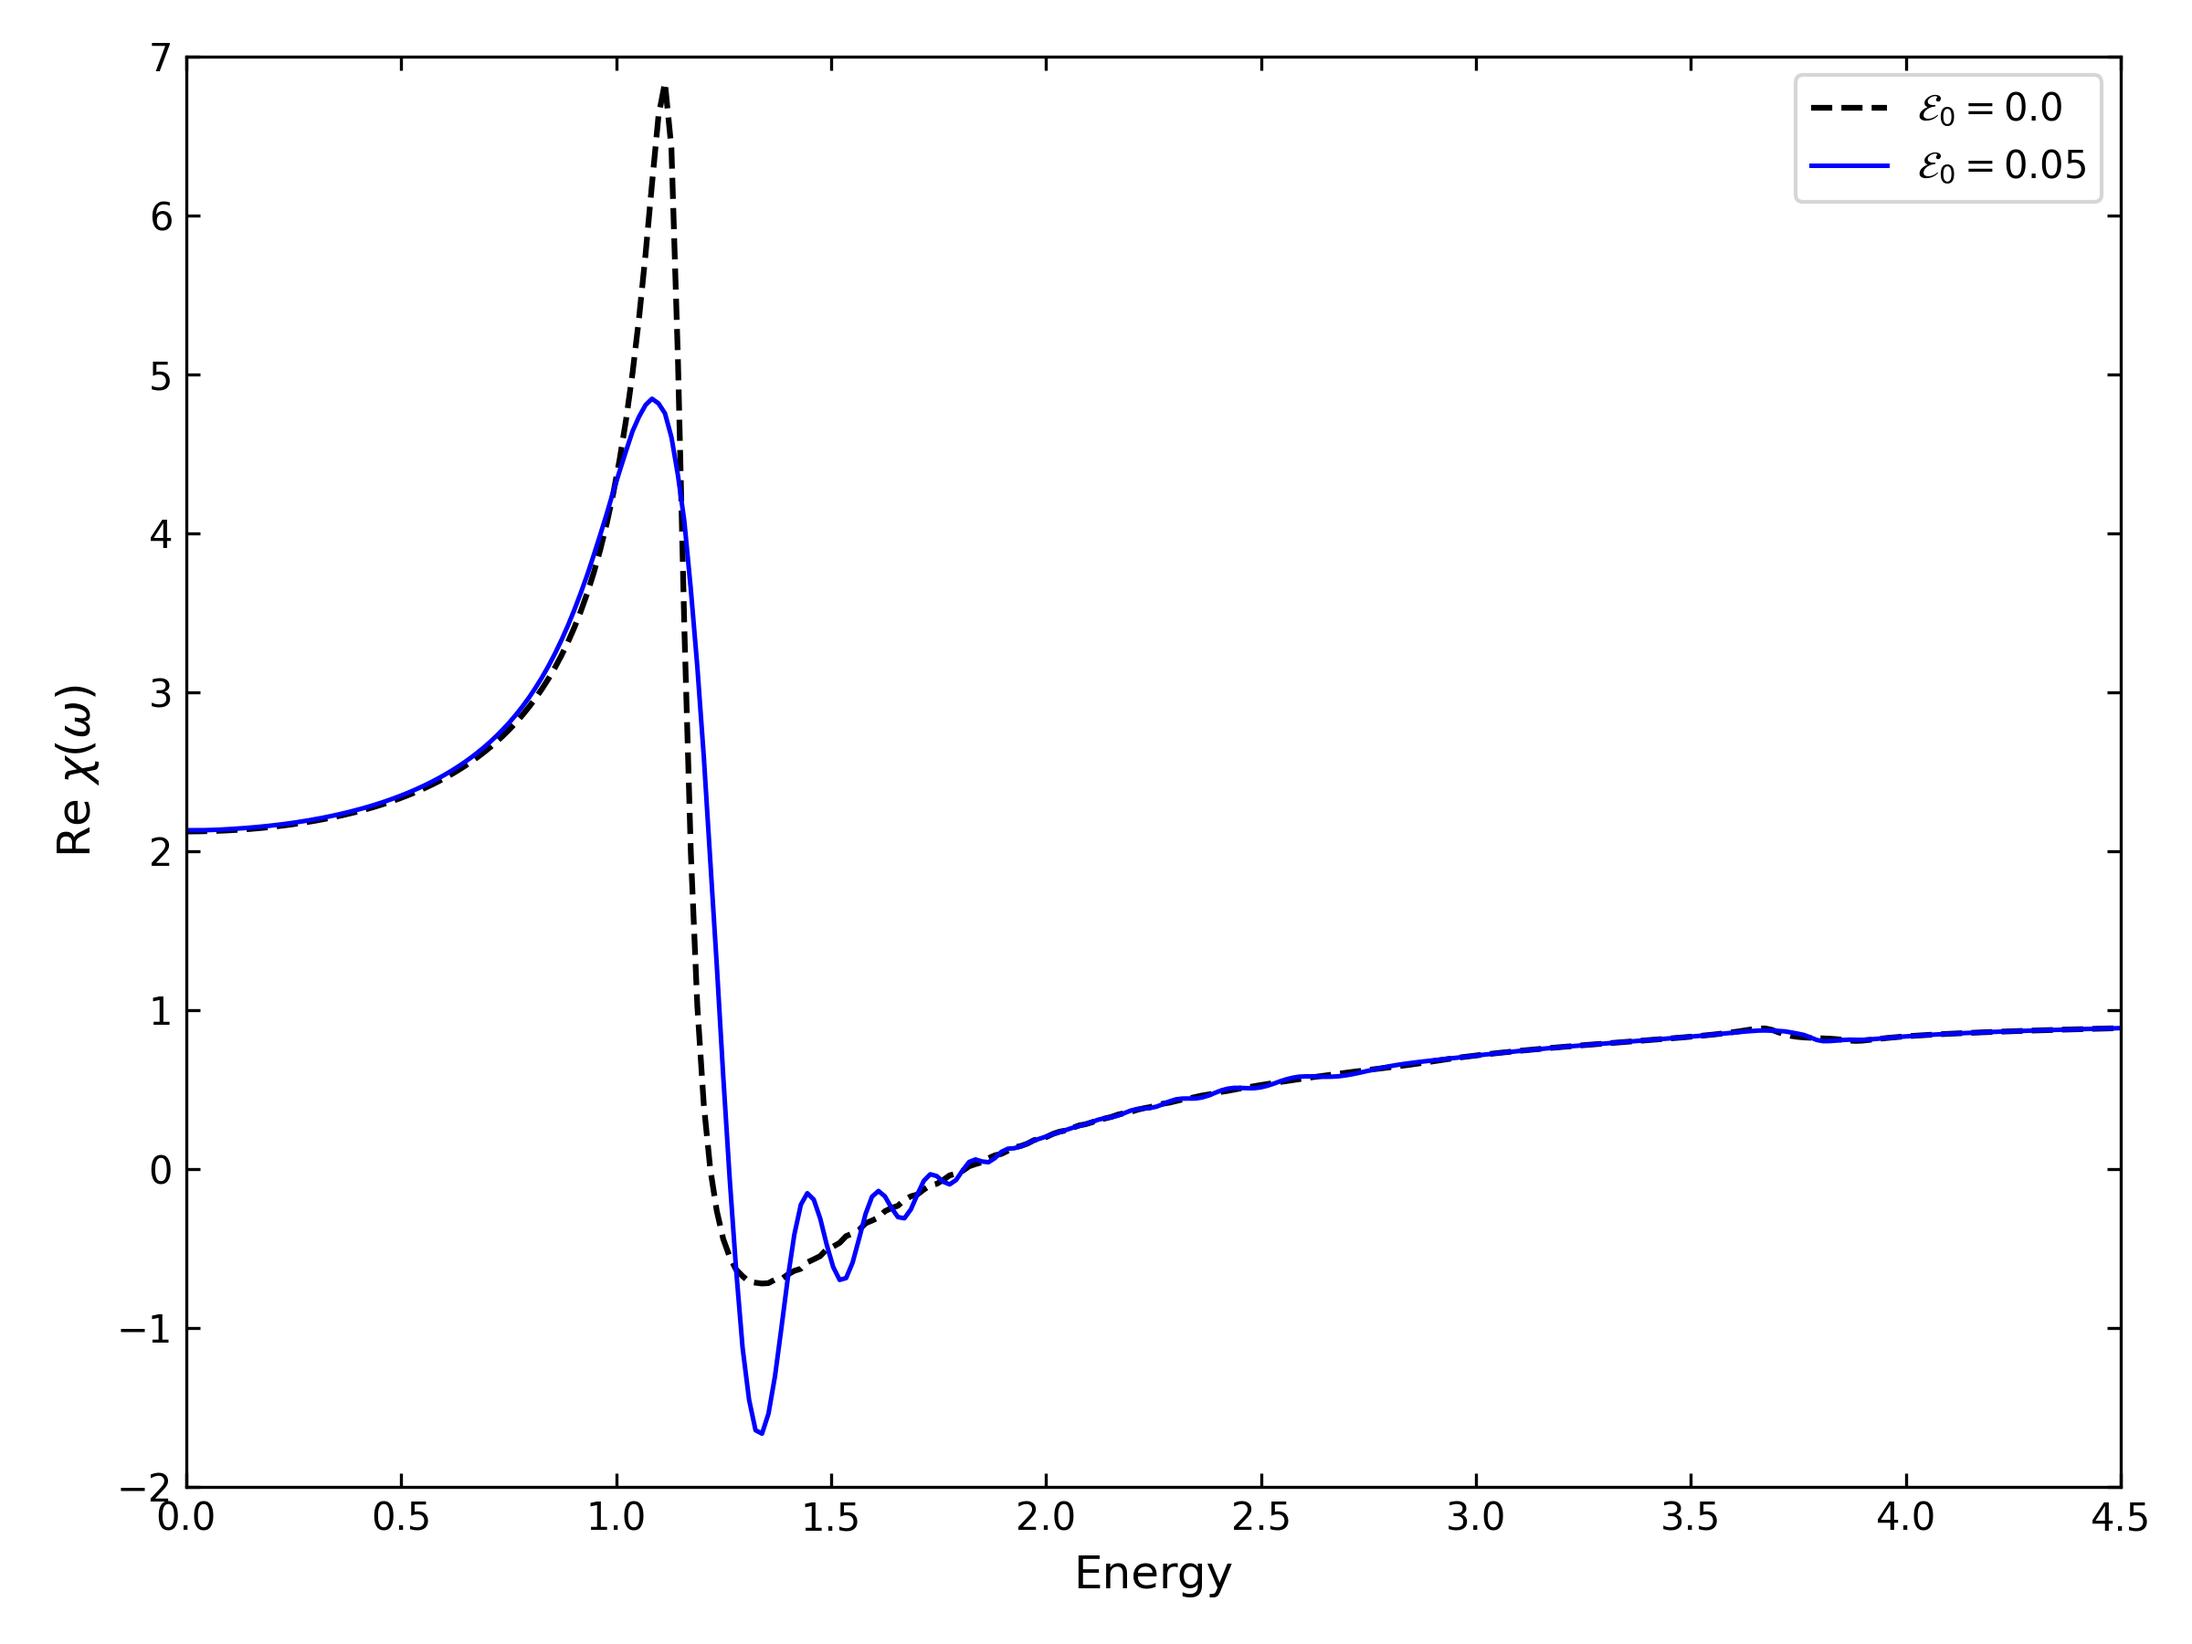
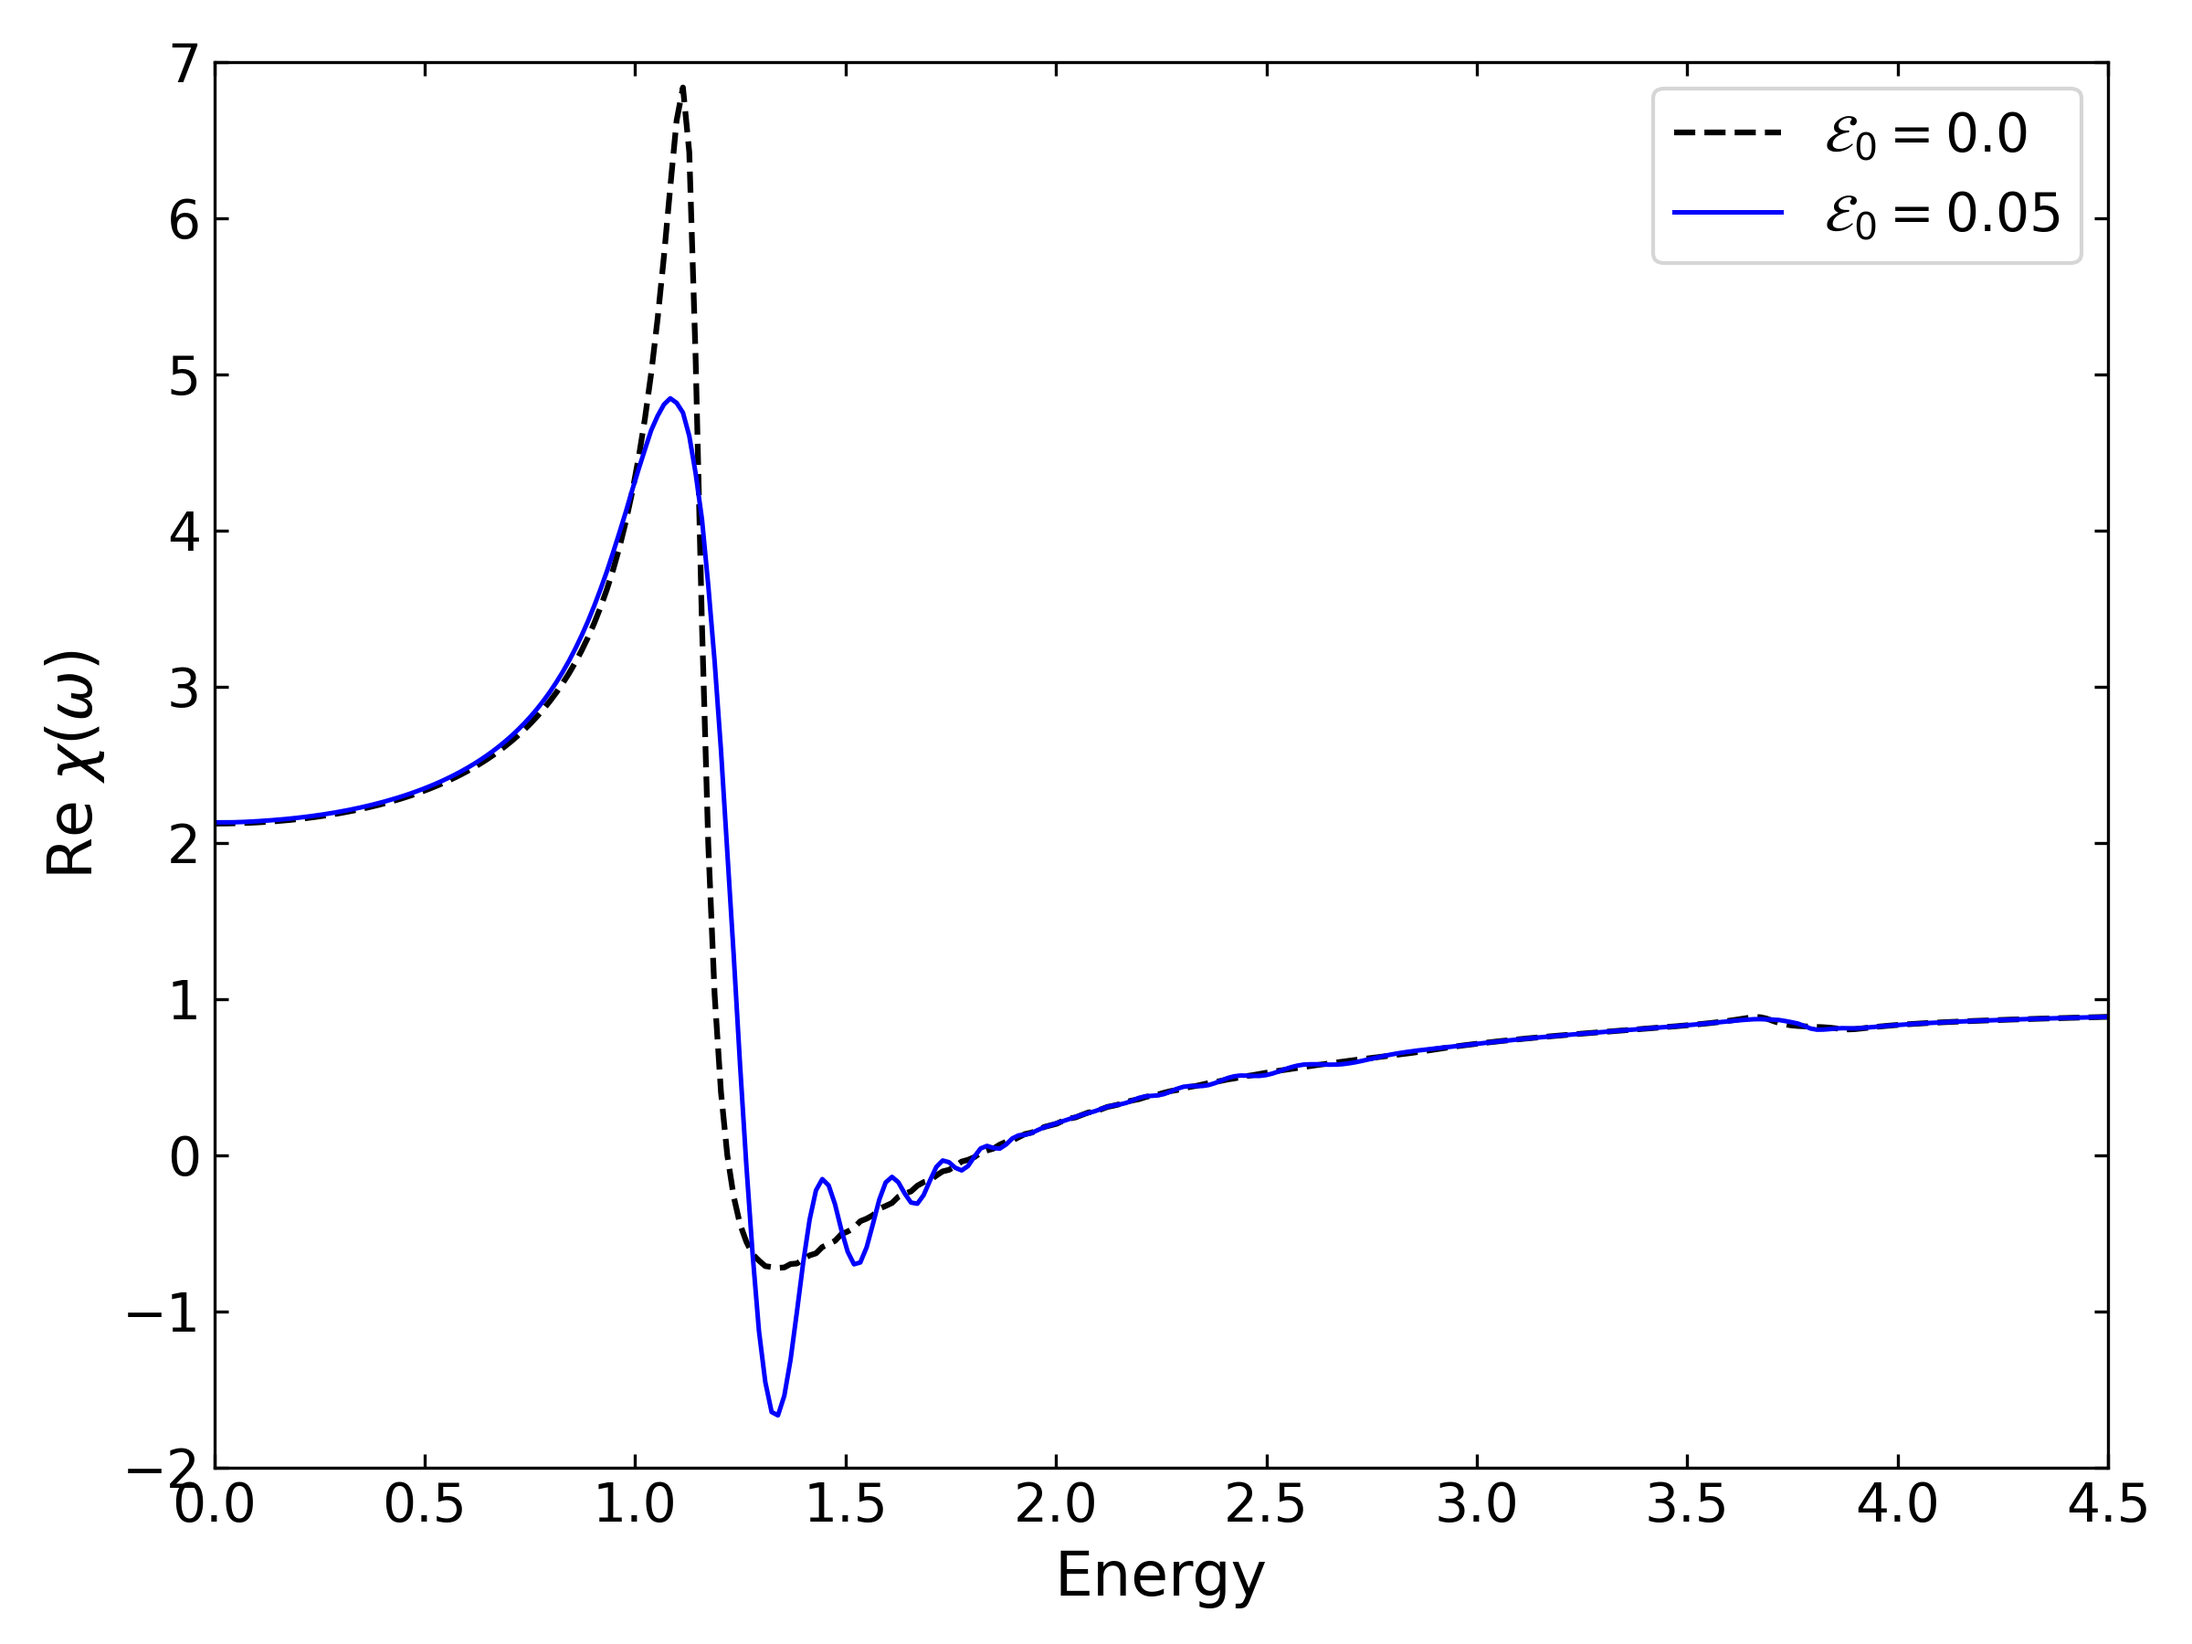
edited figure labels

diff --git a/tight-binding/plot4.py b/tight-binding/plot4.py
@@ -9,8 +9,8 @@ E_arr = np.linspace(0, E_max, 50)
 P_static_arr = np.array([calc_static_pol_el(E, N=200) for E in E_arr])
 P_static_arr -= P_static_arr[0]
 print("Simulating dynamic polarizations...")
-times_40, P_dyn_40 = calc_dyn_pol_el(E_max, T_ramp=40, N=200, t_max=120)
-times_80, P_dyn_80 = calc_dyn_pol_el(E_max, T_ramp=80, N=200, t_max=120)
+times_40, P_dyn_40 = calc_dyn_pol_el(E_max, T_ramp=40, N=200, t_max=160)
+times_80, P_dyn_80 = calc_dyn_pol_el(E_max, T_ramp=80, N=200, t_max=160)
 
 # Interpolate static grid onto time arrays for the Adiatbatic lines
 E_arr_40 = E_max * np.minimum(times_40 / 40.0, 1.0)
@@ -20,7 +20,7 @@ E_arr_80 = E_max * np.minimum(times_80 / 80.0, 1.0)
 P_ad_80 = np.interp(E_arr_80, E_arr, P_static_arr)
 
 print("Simulating 100 k-point inset comparison...")
-times_40_100k, P_dyn_40_100k = calc_dyn_pol_el(E_max, T_ramp=40, N=100, t_max=120)
+times_40_100k, P_dyn_40_100k = calc_dyn_pol_el(E_max, T_ramp=40, N=140, t_max=160)
 
 print("Simulation done.")
 
@@ -30,13 +30,13 @@ plt.plot(times_40, P_ad_40, 'k--', label='Adiabatic')
 plt.plot(times_80, P_dyn_80, '-', lw=1, alpha=0.8, label='Dynamic (T=80)')
 plt.plot(times_80, P_ad_80, 'k--', alpha=0.5)
 
-plt.xlabel('Time', fontsize=12)
-plt.ylabel('Polarization', fontsize=12)
+plt.xlabel('Time', fontsize=16)
+plt.ylabel('Polarization', fontsize=16)
 plt.xlim(0, 120)
 plt.ylim(0, 0.0025)
-plt.xticks([0, 40, 80, 120], fontsize=10)
-plt.yticks([0, 0.001, 0.002], fontsize=10)
-plt.legend(loc='upper left', fontsize=10)
+plt.xticks([0, 40, 80, 120], fontsize=14)
+plt.yticks([0, 0.001, 0.002], fontsize=14)
+plt.legend(loc='upper left', fontsize=14)
 plt.tick_params(direction='in', top=True, right=True)
 plt.tight_layout()
 plt.savefig('figs/prb69fig4a.png', dpi=300)
@@ -51,13 +51,13 @@ plt.plot(times_40[mask], P_dyn_40[mask], '-', label='Dynamic (200 k points)')
 plt.plot(times_40_100k[mask_100], P_dyn_40_100k[mask_100], color='gray', linestyle='-.', label='Dynamic (100 k points)')
 plt.plot(times_40[mask], P_ad_40[mask], 'k--', label='Adiabatic')
 
-plt.xlabel('Time', fontsize=12)
-plt.ylabel('Polarization', fontsize=12)
+plt.xlabel('Time', fontsize=16)
+plt.ylabel('Polarization', fontsize=16)
 plt.xlim(38, 75)
 plt.ylim(0.00215, 0.00230)
-plt.xticks([40, 60], fontsize=10)
-plt.yticks([0.00215, 0.00220, 0.00225], fontsize=10)
-plt.legend(loc='lower right', fontsize=10)
+plt.xticks([40, 60], fontsize=14)
+plt.yticks([0.00215, 0.00220, 0.00225], fontsize=14)
+plt.legend(loc='lower right', fontsize=14)
 plt.tick_params(direction='in', top=True, right=True)
 plt.tight_layout()
 plt.savefig('figs/prb69fig4b.png', dpi=300)

diff --git a/tight-binding/plot5.py b/tight-binding/plot5.py
@@ -3,23 +3,23 @@ import matplotlib.pyplot as plt
 
 print("Simulating dynamic polarizations...")
 E_max = 0.05
-times_40_800, P_dyn_40_800 = calc_dyn_pol_el(E_max, T_ramp=40, N=800, t_max=120)
-times_80_800, P_dyn_80_800 = calc_dyn_pol_el(E_max, T_ramp=80, N=800, t_max=120)
+times_40_800, P_dyn_40_800 = calc_dyn_pol_el(E_max, T_ramp=40, N=800, t_max=160)
+times_80_800, P_dyn_80_800 = calc_dyn_pol_el(E_max, T_ramp=80, N=800, t_max=160)
 print("Simulating 400 k-point inset comparison...")
-times_40_400, P_dyn_40_400 = calc_dyn_pol_el(E_max, T_ramp=40, N=400, t_max=120)
+times_40_400, P_dyn_40_400 = calc_dyn_pol_el(E_max, T_ramp=40, N=400, t_max=160)
 print("Simulation done.")
 
 plt.figure(figsize=(8, 6))
 plt.plot(times_40_800, P_dyn_40_800, '-', lw=1, label='Dynamic (T=40)')
 plt.plot(times_80_800, P_dyn_80_800, '-', lw=1, alpha=0.8, label='Dynamic (T=80)')
 
-plt.xlabel('Time', fontsize=12)
-plt.ylabel('Polarization', fontsize=12)
+plt.xlabel('Time', fontsize=16)
+plt.ylabel('Polarization', fontsize=16)
 plt.xlim(0, 120)
 plt.ylim(0, 0.005)
-plt.xticks([0, 40, 80, 120], fontsize=10)
-plt.yticks([0, 0.001, 0.002, 0.003, 0.004], fontsize=10)
-plt.legend(loc='upper left', fontsize=10)
+plt.xticks([0, 40, 80, 120], fontsize=14)
+plt.yticks([0, 0.001, 0.002, 0.003, 0.004], fontsize=14)
+plt.legend(loc='upper left', fontsize=14)
 plt.tick_params(direction='in', top=True, right=True)
 plt.tight_layout()
 plt.savefig('figs/prb69fig5a.png', dpi=300)
@@ -33,13 +33,13 @@ mask_400 = (times_40_400 >= 38) & (times_40_400 <= 75)
 plt.plot(times_40_800[mask], P_dyn_40_800[mask], '-', label='Dynamic (800 k points)')
 plt.plot(times_40_400[mask_400], P_dyn_40_400[mask_400], '.', color='gray', ms=4, label='Dynamic (400 k points)')
 
-plt.xlabel('Time', fontsize=12)
-plt.ylabel('Polarization', fontsize=12)
+plt.xlabel('Time', fontsize=16)
+plt.ylabel('Polarization', fontsize=16)
 plt.xlim(38, 75)
 plt.ylim(0.0043, 0.0046)
-plt.xticks([40, 60], fontsize=10)
-plt.yticks([0.0043, 0.0044, 0.0045], fontsize=10)
-plt.legend(loc='lower right', fontsize=10)
+plt.xticks([40, 60], fontsize=14)
+plt.yticks([0.0043, 0.0044, 0.0045], fontsize=14)
+plt.legend(loc='lower right', fontsize=14)
 plt.tick_params(direction='in', top=True, right=True)
 plt.tight_layout()
 plt.savefig('figs/prb69fig5b.png', dpi=300)

diff --git a/tight-binding/plot6.py b/tight-binding/plot6.py
@@ -18,11 +18,13 @@ print("Simulation done.")
 plt.figure(figsize=(8, 6))
 plt.plot(omegas_main, re_chi_0, 'k--', linewidth=1.5, label=r'$\mathcal{E}_0 = 0.0$')
 plt.plot(omegas_main, re_chi_5, 'b-', linewidth=1.2, label=r'$\mathcal{E}_0 = 0.05$')
-plt.xlabel('Energy', fontsize=12)
-plt.ylabel(r'Re $\chi(\omega)$', fontsize=12)
+plt.xlabel('Energy', fontsize=16)
+plt.ylabel(r'Re $\chi(\omega)$', fontsize=16)
 plt.xlim(0, 4.5)
 plt.ylim(-2, 7)
-plt.legend(loc='upper right', frameon=True)
+plt.xticks(fontsize=14)
+plt.yticks(fontsize=14)
+plt.legend(loc='upper right', fontsize=14)
 plt.tick_params(direction='in', top=True, right=True)
 plt.tight_layout()
 plt.savefig('figs/prb69fig6a.png', dpi=300)
@@ -32,11 +34,13 @@ print("Real part of susceptibility is plotted.")
 plt.figure(figsize=(8, 6))
 plt.plot(omegas_main, im_chi_0, 'k--', linewidth=1.5, label=r'$\mathcal{E}_0 = 0.0$')
 plt.plot(omegas_main, im_chi_5, 'b-', linewidth=1.2, label=r'$\mathcal{E}_0 = 0.05$')
-plt.xlabel('Energy', fontsize=12)
-plt.ylabel(r'Im $\chi(\omega)$', fontsize=12)
+plt.xlabel('Energy', fontsize=16)
+plt.ylabel(r'Im $\chi(\omega)$', fontsize=16)
 plt.xlim(0, 4.5)
 plt.ylim(0, 7.5)
-plt.legend(loc='upper right', frameon=True)
+plt.xticks(fontsize=14)
+plt.yticks(fontsize=14)
+plt.legend(loc='upper right', fontsize=14)
 plt.tick_params(direction='in', top=True, right=True)
 plt.tight_layout()
 plt.savefig('figs/prb69fig6b.png', dpi=300)
@@ -46,11 +50,13 @@ print("Imaginary part of susceptibility is plotted.")
 plt.figure(figsize=(8, 6))
 plt.plot(omegas_inset, im_chi_5_inset, 'b-', linewidth=1.5, label=r'$\mathcal{E}_0 = 0.05$')
 plt.plot(omegas_inset, im_chi_3_inset, 'k--', linewidth=1.5, label=r'$\mathcal{E}_0 = 0.03$')
-plt.xlabel('Energy', fontsize=12)
-plt.ylabel(r'Im $\chi(\omega)$', fontsize=12)
+plt.xlabel('Energy', fontsize=16)
+plt.ylabel(r'Im $\chi(\omega)$', fontsize=16)
 plt.xlim(1.3, 1.8)
 plt.ylim(0, 4.5)
-plt.legend(loc='upper right', frameon=True)
+plt.xticks(fontsize=14)
+plt.yticks(fontsize=14)
+plt.legend(loc='upper right', fontsize=14)
 plt.tick_params(direction='in', top=True, right=True)
 plt.tight_layout()
 plt.savefig('figs/prb69fig6c.png', dpi=300)

diff --git a/tight-binding/plot2.py b/tight-binding/plot2.py
@@ -5,19 +5,19 @@ print("Simulating for 200 k-points...")
 t1, P_dyn_200 = calc_dyn_pol_alpha(T=80, t_max=200, N_k=200)
 _, P_ad_200 = calc_ad_pol_alpha(T=80, t_max=200, N_k=200)
 print("Simulating for 100 k-points...")
-_, P_dyn_100 = calc_dyn_pol_alpha(T=80, t_max=200, N_k=100)
+_, P_dyn_100 = calc_dyn_pol_alpha(T=80, t_max=200, N_k=140)
 print('Simulation done.')
 
 plt.figure(figsize=(8, 5))
 plt.plot(t1, P_dyn_200, '-', lw=1, label='Dynamic')
 plt.plot(t1, P_ad_200, '--', lw=1, label='Adiabatic')
-plt.xlabel('Time', fontsize=12)
-plt.ylabel('Polarization', fontsize=12)
+plt.xlabel('Time', fontsize=16)
+plt.ylabel('Polarization', fontsize=16)
 plt.xlim(0, 200)
 plt.ylim(0, 1.05)
-plt.xticks(fontsize=10)
-plt.yticks([0, 0.5, 1.0], fontsize=10)
-plt.legend(loc='upper left', fontsize=10, frameon=True)
+plt.xticks(fontsize=14)
+plt.yticks([0, 0.5, 1.0], fontsize=14)
+plt.legend(loc='upper left', fontsize=14, frameon=True)
 plt.tick_params(direction='in', top=True, right=True)
 plt.tight_layout()
 plt.savefig('figs/prb69fig2a.png', dpi=300)
@@ -29,13 +29,13 @@ mask = (t1 >= 70) & (t1 <= 150)
 plt.plot(t1[mask], P_dyn_200[mask], '-', label='Dynamic (200 k points)')
 plt.plot(t1[mask], P_dyn_100[mask], '.', color='gray', ms=5, label='Dynamic (100 k points)')
 plt.plot(t1[mask], P_ad_200[mask], '--', label='Adiabatic')
-plt.xlabel('Time', fontsize=12)
-plt.ylabel('Polarization', fontsize=12)
+plt.xlabel('Time', fontsize=16)
+plt.ylabel('Polarization', fontsize=16)
 plt.xlim(70, 150)
 plt.ylim(0.992, 1.004)
-plt.xticks([80, 120], fontsize=10)
-plt.yticks([0.992, 0.996, 1.000], fontsize=10)
-plt.legend(loc='lower right', fontsize=10, frameon=True)
+plt.xticks([80, 120], fontsize=14)
+plt.yticks([0.992, 0.996, 1.000], fontsize=14)
+plt.legend(loc='lower right', fontsize=14, frameon=True)
 plt.tick_params(direction='in', top=True, right=True)
 plt.tight_layout()
 plt.savefig('figs/prb69fig2b.png', dpi=300)

diff --git a/tight-binding/plot1.py b/tight-binding/plot1.py
@@ -11,13 +11,13 @@ plt.figure(figsize=(7, 5))
 for ni in range(2):
     plt.plot(k_vals, eigvals[:, ni], 'k-')
 
-plt.xlabel('$k$', fontsize=12)
-plt.ylabel('Energy', fontsize=12)
+plt.xlabel('$k$', fontsize=16)
+plt.ylabel('Energy', fontsize=16)
 plt.xlim(-np.pi, np.pi)
 plt.ylim(-2.5, 2.5)
-plt.xticks([-np.pi, 0, np.pi], [r'$-\pi$', '0', r'$\pi$'], fontsize=10)
-plt.yticks([-2, -1, 0, 1, 2], fontsize=10)
-plt.tick_params(direction='in', top=True, right=True, labelsize=12)
+plt.xticks([-np.pi, 0, np.pi], [r'$-\pi$', '0', r'$\pi$'], fontsize=14)
+plt.yticks([-2, -1, 0, 1, 2], fontsize=14)
+plt.tick_params(direction='in', top=True, right=True, labelsize=16)
 plt.tight_layout()
 plt.savefig('figs/prb69fig1a.png', dpi=300)
 plt.show()
@@ -29,13 +29,13 @@ plt.figure(figsize=(7, 5))
 for ni in range(3):
     plt.plot(k_vals, eigvals[:, ni], 'k-')
 
-plt.xlabel('$k$', fontsize=12)
-plt.ylabel('Energy', fontsize=12)
+plt.xlabel('$k$', fontsize=16)
+plt.ylabel('Energy', fontsize=16)
 plt.xlim(-np.pi, np.pi)
 plt.ylim(-2.5, 2.5)
-plt.xticks([-np.pi, 0, np.pi], [r'$-\pi$', '0', r'$\pi$'], fontsize=10)
-plt.yticks([-2, -1, 0, 1, 2], fontsize=10)
-plt.tick_params(direction='in', top=True, right=True, labelsize=12)
+plt.xticks([-np.pi, 0, np.pi], [r'$-\pi$', '0', r'$\pi$'], fontsize=14)
+plt.yticks([-2, -1, 0, 1, 2], fontsize=14)
+plt.tick_params(direction='in', top=True, right=True, labelsize=16)
 plt.tight_layout()
 plt.savefig('figs/prb69fig1.png', dpi=300)
 plt.show()

diff --git a/tight-binding/plot3a.py b/tight-binding/plot3a.py
@@ -16,13 +16,13 @@ plt.plot(t2[mask], P_dyn_80[mask], '-', label='Dynamic (T = 80)')
 plt.plot(t2[mask], P_dyn_120[mask], '-.', lw=1.8, label='Dynamic (T = 120)')
 plt.plot(t2[mask], P_ad_80[mask], 'k--', lw=1, label='Adiabatic')
 plt.plot(t2[mask], P_ad_120[mask], 'k--', lw=1)
-plt.xlabel('Time', fontsize=12)
-plt.ylabel('Polarization', fontsize=12)
+plt.xlabel('Time', fontsize=16)
+plt.ylabel('Polarization', fontsize=16)
 plt.xlim(70, 150)
 plt.ylim(0.992, 1.004)
-plt.xticks([80, 120], fontsize=10)
-plt.yticks([0.992, 0.996, 1.000], fontsize=10)
-plt.legend(loc='lower right', fontsize=10, frameon=True)
+plt.xticks([80, 120], fontsize=14)
+plt.yticks([0.992, 0.996, 1.000], fontsize=14)
+plt.legend(loc='lower right', fontsize=14, frameon=True)
 plt.tick_params(direction='in', top=True, right=True)
 plt.tight_layout()
 plt.savefig('figs/prb69fig3a.png', dpi=300)

diff --git a/tight-binding/README.md b/tight-binding/README.md
@@ -2,5 +2,4 @@
 
 The results are in the `figs/` folder.
 
-All the plots matches with the results in *Ivo Souza, Jorge Iniguez, and David Vanderbilt; PRB 69, 085106 (2004)*.
-
+All the plots matches with the results in *Souza, Iniguez, and Vanderbilt; PRB 69, 085106 (2004)*.
